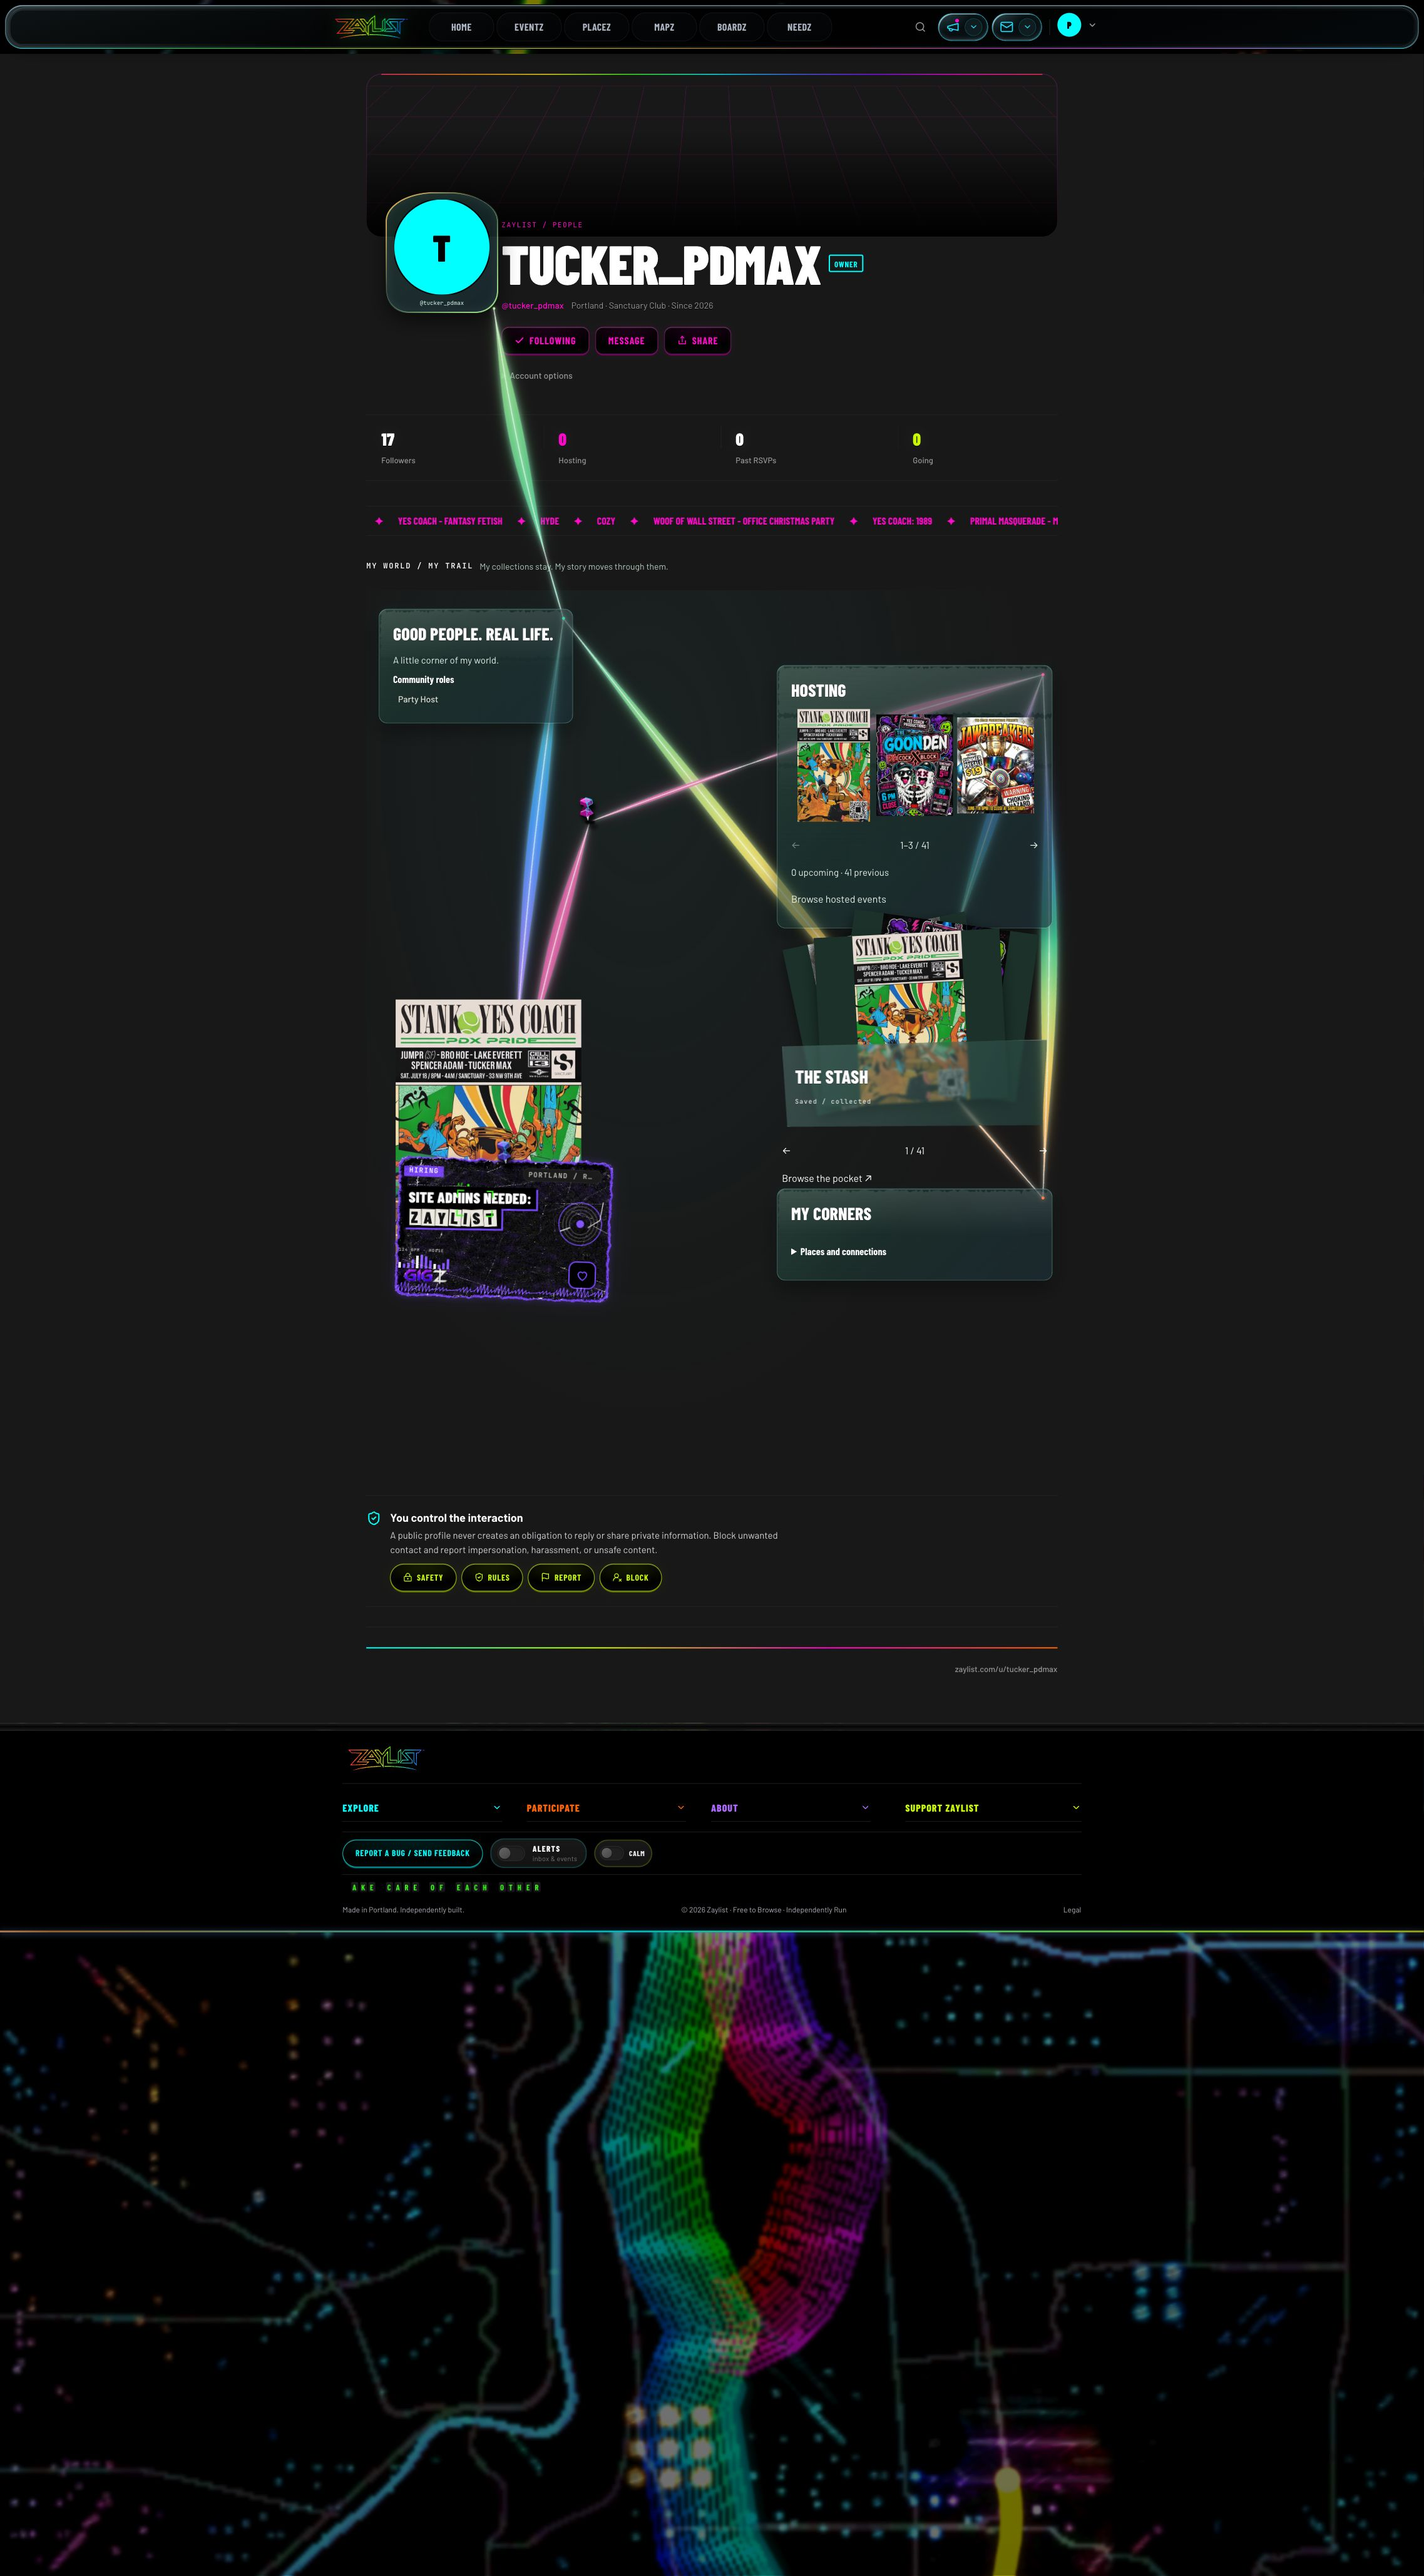
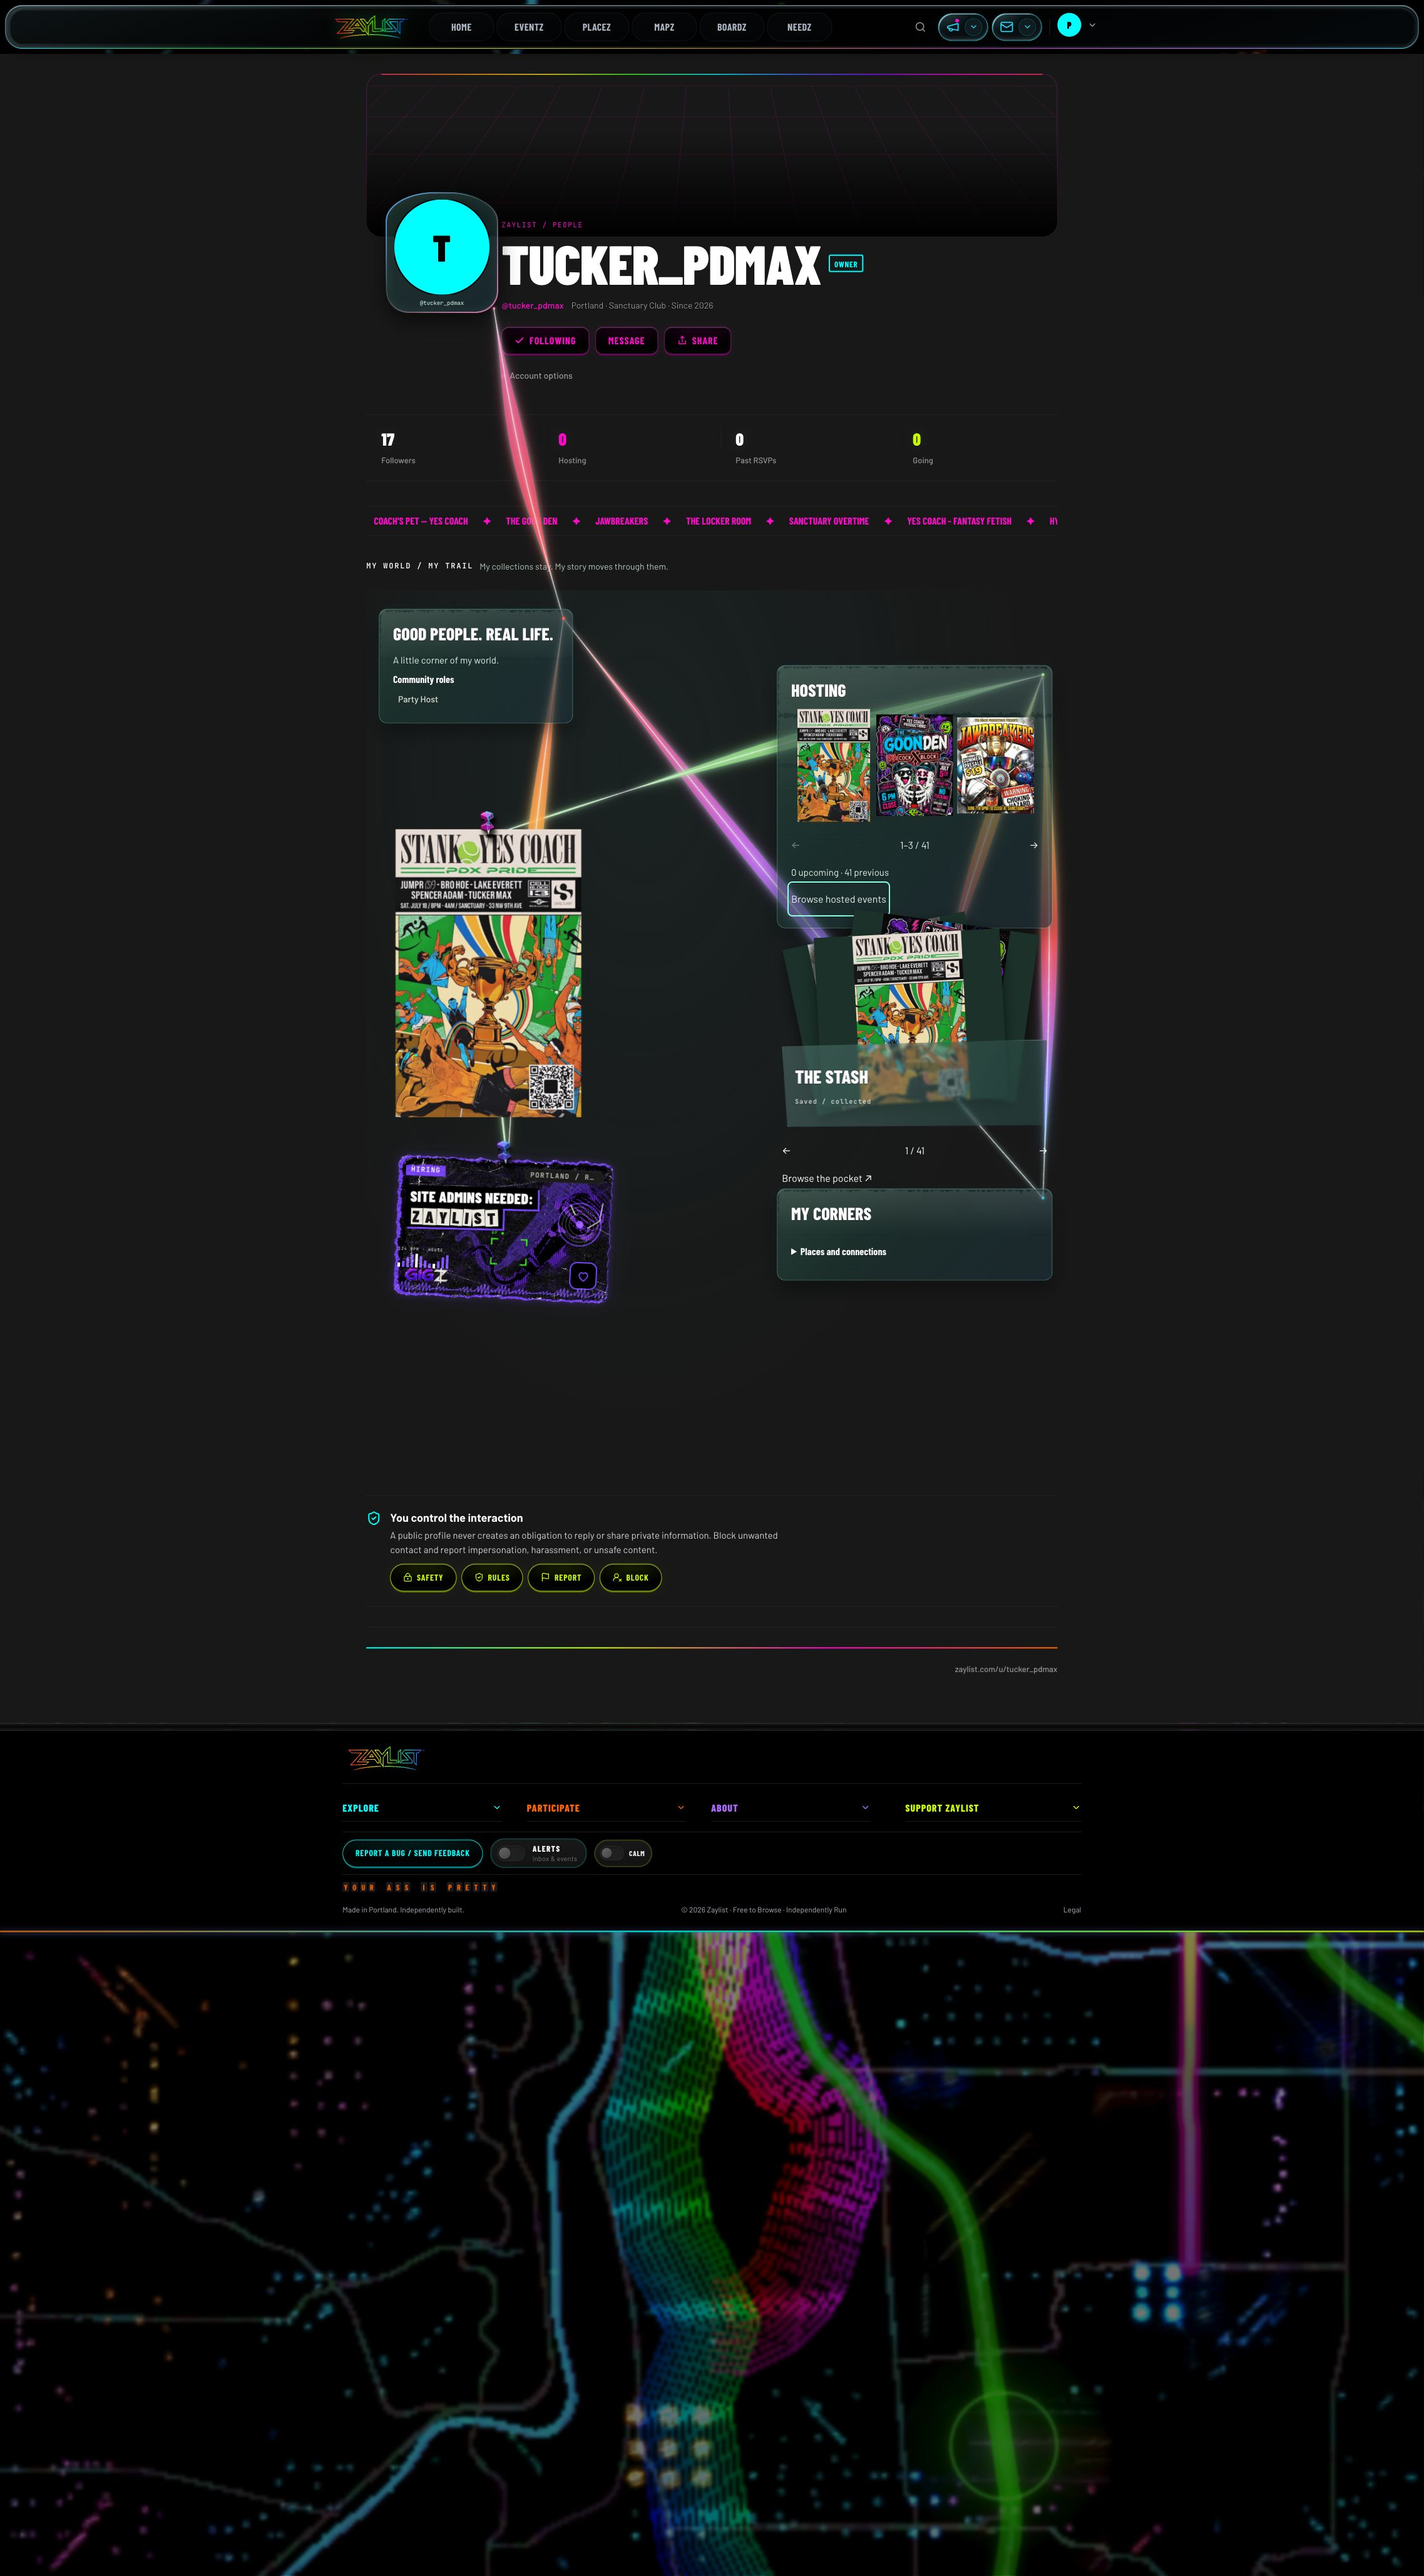
Keep profile hardware attached and sway only pinned paper

diff --git a/client/src/components/profile/usePinnedScrollSway.ts b/client/src/components/profile/usePinnedScrollSway.ts
@@ -2,7 +2,7 @@ import {useEffect,type RefObject} from 'react';
 /** Only paper moves. Pin siblings and measured needle contacts remain fixed. */
 export function usePinnedScrollSway(root:RefObject<HTMLElement>,disabled:boolean){
  useEffect(()=>{const host=root.current;if(!host)return;let frame=0,last=scrollY,travel=0;const motion=matchMedia('(prefers-reduced-motion: reduce)');const clear=()=>host.querySelectorAll<HTMLElement>('[data-sway-paper]').forEach(el=>{el.style.removeProperty('rotate');el.style.removeProperty('transform-origin');el.removeAttribute('data-sway-paper');});
- function draw(){frame=0;const dy=scrollY-last;last=scrollY;if(disabled||motion.matches||document.documentElement.classList.contains('calm-mode')){clear();return;}travel+=dy;const nodes=host!.querySelectorAll<HTMLElement>('.profile-wall-object:not(.is-open) .demo-pinned,.profile-wall-object:not(.is-open) .profile-poster');nodes.forEach((node,i)=>{const box=node.getBoundingClientRect();if(box.bottom<0||box.top>innerHeight)return;const paper=node.matches('.demo-pinned')?Array.from(node.children).find(el=>!el.classList.contains('ab-pin')):node.querySelector('.profile-poster__front:not([hidden]),.profile-poster__reverse,figure');if(!(paper instanceof HTMLElement))return;paper.dataset.swayPaper='true';const pin=node.querySelector('.ab-pin__contact')?.getBoundingClientRect(),p=paper.getBoundingClientRect();paper.style.transformOrigin=pin?`${pin.left+pin.width/2-p.left}px ${pin.top+pin.height/2-p.top}px`:'50% 0';paper.style.rotate=`${Math.sin(travel*.018+i*.71)*Math.min(1.7,Math.abs(dy)*.07)}deg`;});}
+ function draw(){frame=0;const dy=scrollY-last;last=scrollY;if(disabled||motion.matches||document.documentElement.classList.contains('calm-mode')){clear();return;}travel+=dy;const nodes=host!.querySelectorAll<HTMLElement>('.profile-wall-object:not(.is-open) .demo-pinned,.profile-wall-object:not(.is-open) .profile-poster,.profile-wall-object:not(.is-open) .profile-paper-update');nodes.forEach((node,i)=>{const box=node.getBoundingClientRect();if(box.bottom<0||box.top>innerHeight)return;const paper=node.matches('.profile-paper-update')?node:node.matches('.demo-pinned')?Array.from(node.children).find(el=>!el.classList.contains('ab-pin')):node.querySelector('.profile-poster__front:not([hidden]),.profile-poster__reverse,figure');if(!(paper instanceof HTMLElement))return;paper.dataset.swayPaper='true';const pin=(node.querySelector('.ab-pin__contact')||node.closest('.profile-wall-object')?.querySelector('.profile-wall-object__pin .ab-pin__contact'))?.getBoundingClientRect(),p=paper.getBoundingClientRect();if(!pin||pin.width<=0||pin.height<=0){paper.style.removeProperty('rotate');paper.style.removeProperty('transform-origin');paper.removeAttribute('data-sway-paper');return;}paper.style.transformOrigin=pin?`${pin.left+pin.width/2-p.left}px ${pin.top+pin.height/2-p.top}px`:'50% 0';paper.style.rotate=`${Math.sin(travel*.018+i*.71)*Math.min(1.7,Math.abs(dy)*.07)}deg`;});}
  const observer=new MutationObserver(()=>{if(document.documentElement.classList.contains('calm-mode'))clear();});observer.observe(document.documentElement,{attributes:true,attributeFilter:['class']});const scroll=()=>{if(!frame)frame=requestAnimationFrame(draw);};window.addEventListener('scroll',scroll,{passive:true});motion.addEventListener('change',clear);return()=>{observer.disconnect();cancelAnimationFrame(frame);window.removeEventListener('scroll',scroll);motion.removeEventListener('change',clear);clear();};
  },[root,disabled]);
 }

diff --git a/client/src/components/profile/objects/ProfileObjects.css b/client/src/components/profile/objects/ProfileObjects.css
@@ -10,3 +10,5 @@
 .profile-stash{padding:20px 8px 0}.profile-stash__art{position:relative;height:320px;touch-action:pan-y;perspective:900px}.profile-stash__piece{position:absolute;left:15%;bottom:40px;width:70%;padding:0!important;border:0;background:var(--profile-palette-05);box-shadow:0 9px 20px color-mix(in srgb,var(--profile-black) 53.33%,transparent);transform-origin:50% 90%;transition:transform .25s}.profile-stash__piece img{display:block;width:100%;height:270px;object-fit:contain;background:var(--profile-palette-09)}.profile-stash__piece.piece-2{transform:translate(-15px,-9px) rotate(-12deg)}.profile-stash__piece.piece-1{transform:translate(18px,-20px) rotate(8deg)}.profile-stash__piece.piece-0{transform:rotate(-3deg)}.profile-stash__piece.piece-0:hover{transform:translateY(-18px) rotate(-1deg)}.profile-stash__art>.profile-stash__pocket{position:absolute;left:0;right:0;bottom:0;height:140px;pointer-events:none;clip-path:polygon(0 8%,100% 0,98% 98%,2% 100%);background:linear-gradient(115deg,color-mix(in srgb,var(--profile-palette-22) 37.65%,transparent),color-mix(in srgb,var(--profile-palette-16) 65.10%,transparent));backdrop-filter:blur(2px);border:1px solid color-mix(in srgb,var(--profile-palette-48) 40.00%,transparent)}.profile-stash__pocket h2{margin:18px 0 10px}.profile-stash__pocket span{font:10px var(--font-mono);letter-spacing:.12em}.profile-stash[data-profile-variant=compact] .profile-stash__art{height:225px}.profile-stash[data-profile-variant=compact] .profile-stash__piece{width:90%;left:5%}.profile-stash[data-profile-variant=compact] .profile-stash__piece img{height:190px}.profile-stash[data-profile-variant=compact] .profile-stash__art>.profile-stash__pocket{height:105px}.profile-stash[data-profile-variant=compact] .profile-stash__pocket h2{font-size:22px}.profile-stash[data-profile-variant=compact] .profile-stash__piece.piece-2{transform:translate(-3px,-5px) rotate(-9deg)}.profile-stash[data-profile-variant=compact] .profile-stash__piece.piece-1{transform:translate(5px,-10px) rotate(7deg)}
 
 .profile-host-browser__grid>div{animation:profile-host-arrive .42s both;animation-delay:var(--reveal-delay)}@keyframes profile-host-arrive{from{opacity:0;transform:translate(var(--from-x),var(--from-y)) scale(.85)}to{opacity:1;transform:none}}.profile-hologram[data-profile-variant=compact] .profile-host-preview>.profile-poster{width:64%}.profile-upcoming__posters{touch-action:pan-y}.profile-poster__reverse{animation:profile-poster-turn .2s both}@keyframes profile-poster-turn{from{opacity:.5;transform:rotateY(65deg)}to{opacity:1;transform:rotateY(0)}}@media(prefers-reduced-motion:reduce){.profile-host-browser__grid>div,.profile-poster__reverse,.profile-stash__piece{animation:none;transition:none}}.calm-mode .profile-host-browser__grid>div,[data-calm=true] .profile-host-browser__grid>div{animation:none}
+/* Native BoardZ scope carries card dimensions; a hardware-only wrapper must not reserve paper space. */
+.profile-poster>.profile-poster__pin.boardz-punk-scope{position:absolute;inset:0 0 auto;width:100%;height:0;min-height:0;aspect-ratio:auto}

diff --git a/client/src/components/profile/ProfileWall.css b/client/src/components/profile/ProfileWall.css
@@ -7,3 +7,4 @@
 .profile-wall-enabled .pp-hero__avatar{padding:0;border:0;background:none;box-shadow:none}.profile-portrait-bezel{display:inline-block;flex-shrink:0}.pp-page:not(.profile-wall-enabled) .profile-portrait-bezel{padding:0;border:0;background:none;box-shadow:none}.pp-page:not(.profile-wall-enabled) .profile-portrait-bezel:before{display:none}
 
 .profile-portrait-bezel.is-compact .profile-portrait-bezel__screen{width:92px;height:92px}.profile-portrait-bezel.is-compact .profile-portrait-bezel__screen>*{width:100%!important;height:100%!important}
+.profile-wall-object>.profile-wall-object__pin.boardz-punk-scope{position:absolute;inset:0 0 auto;width:100%;height:0;min-height:0;aspect-ratio:auto}

diff --git a/docs/profile-wall/progress.md b/docs/profile-wall/progress.md
@@ -36,3 +36,7 @@ Browser handoff: released for the continuity observer. Desktop http://127.0.0.1:
 Visual correction: sparse public profiles were retaining empty default reservations. Added compaction ONLY for revision0 defaults; saved owner positions are returned unchanged. Empty public connections/featured placeholders are omitted. Initial trail slots start near existing content. A focused regression proves dense sparse defaults and saved-layout identity preservation. Hosting preview arrows now page3 (compact1), with swipe; Upcoming swipe suppresses accidental flips. Updated full-profile/Hosting/mobile collage captures are in captures/. Foundation non-browser suite passes226 tests and comprehension benchmark100/100. Product build and deploy-bundle verification pass. Final source integration/rebuild and deploy still pending.
 
 Final local motion evidence: active browser samples show geometry changing over time (not merely color), portrait exit RGB equals first-edge RGB, and Calm mode freezes all ribbon path geometry. Restored Neon afterward. Corrected desktop-native-boardz.png and mobile-native-boardz.png were recaptured in the actual open state and visually inspected; earlier header-only captures replaced. Full default profile capture now reflects sparse-default compaction. P1–P7 locally accepted; P8 remains publication/verified live parity.
+
+Release candidate pushed: product55f1cd30329c729278240b9169240332c31b0dcd, includes current Mapz commits through fefb7353. GitHub Deploy run41292748948; Railway pending. Exact unchanged predeploy guard passed after detached checkout of origin/master, all16 focused tests/typecheck/build/artifact verification passed. Foundation final package sync/build underway; no live-success claim yet.
+
+Final screenshot inspection caught native scope dimensions leaking into the hardware-only poster wrapper. Scoped zero-height absolute wrappers restore the needle to 10px inside the paper top. Sway now ignores hidden preview pins, includes update paper, and freezes at exactly -1.10558deg across idle samples; hardware rotation remains empty. Hosting previews stay still. Captures updated plus pinned-paper-collage.png. Follow-up release verification underway before final acceptance.
